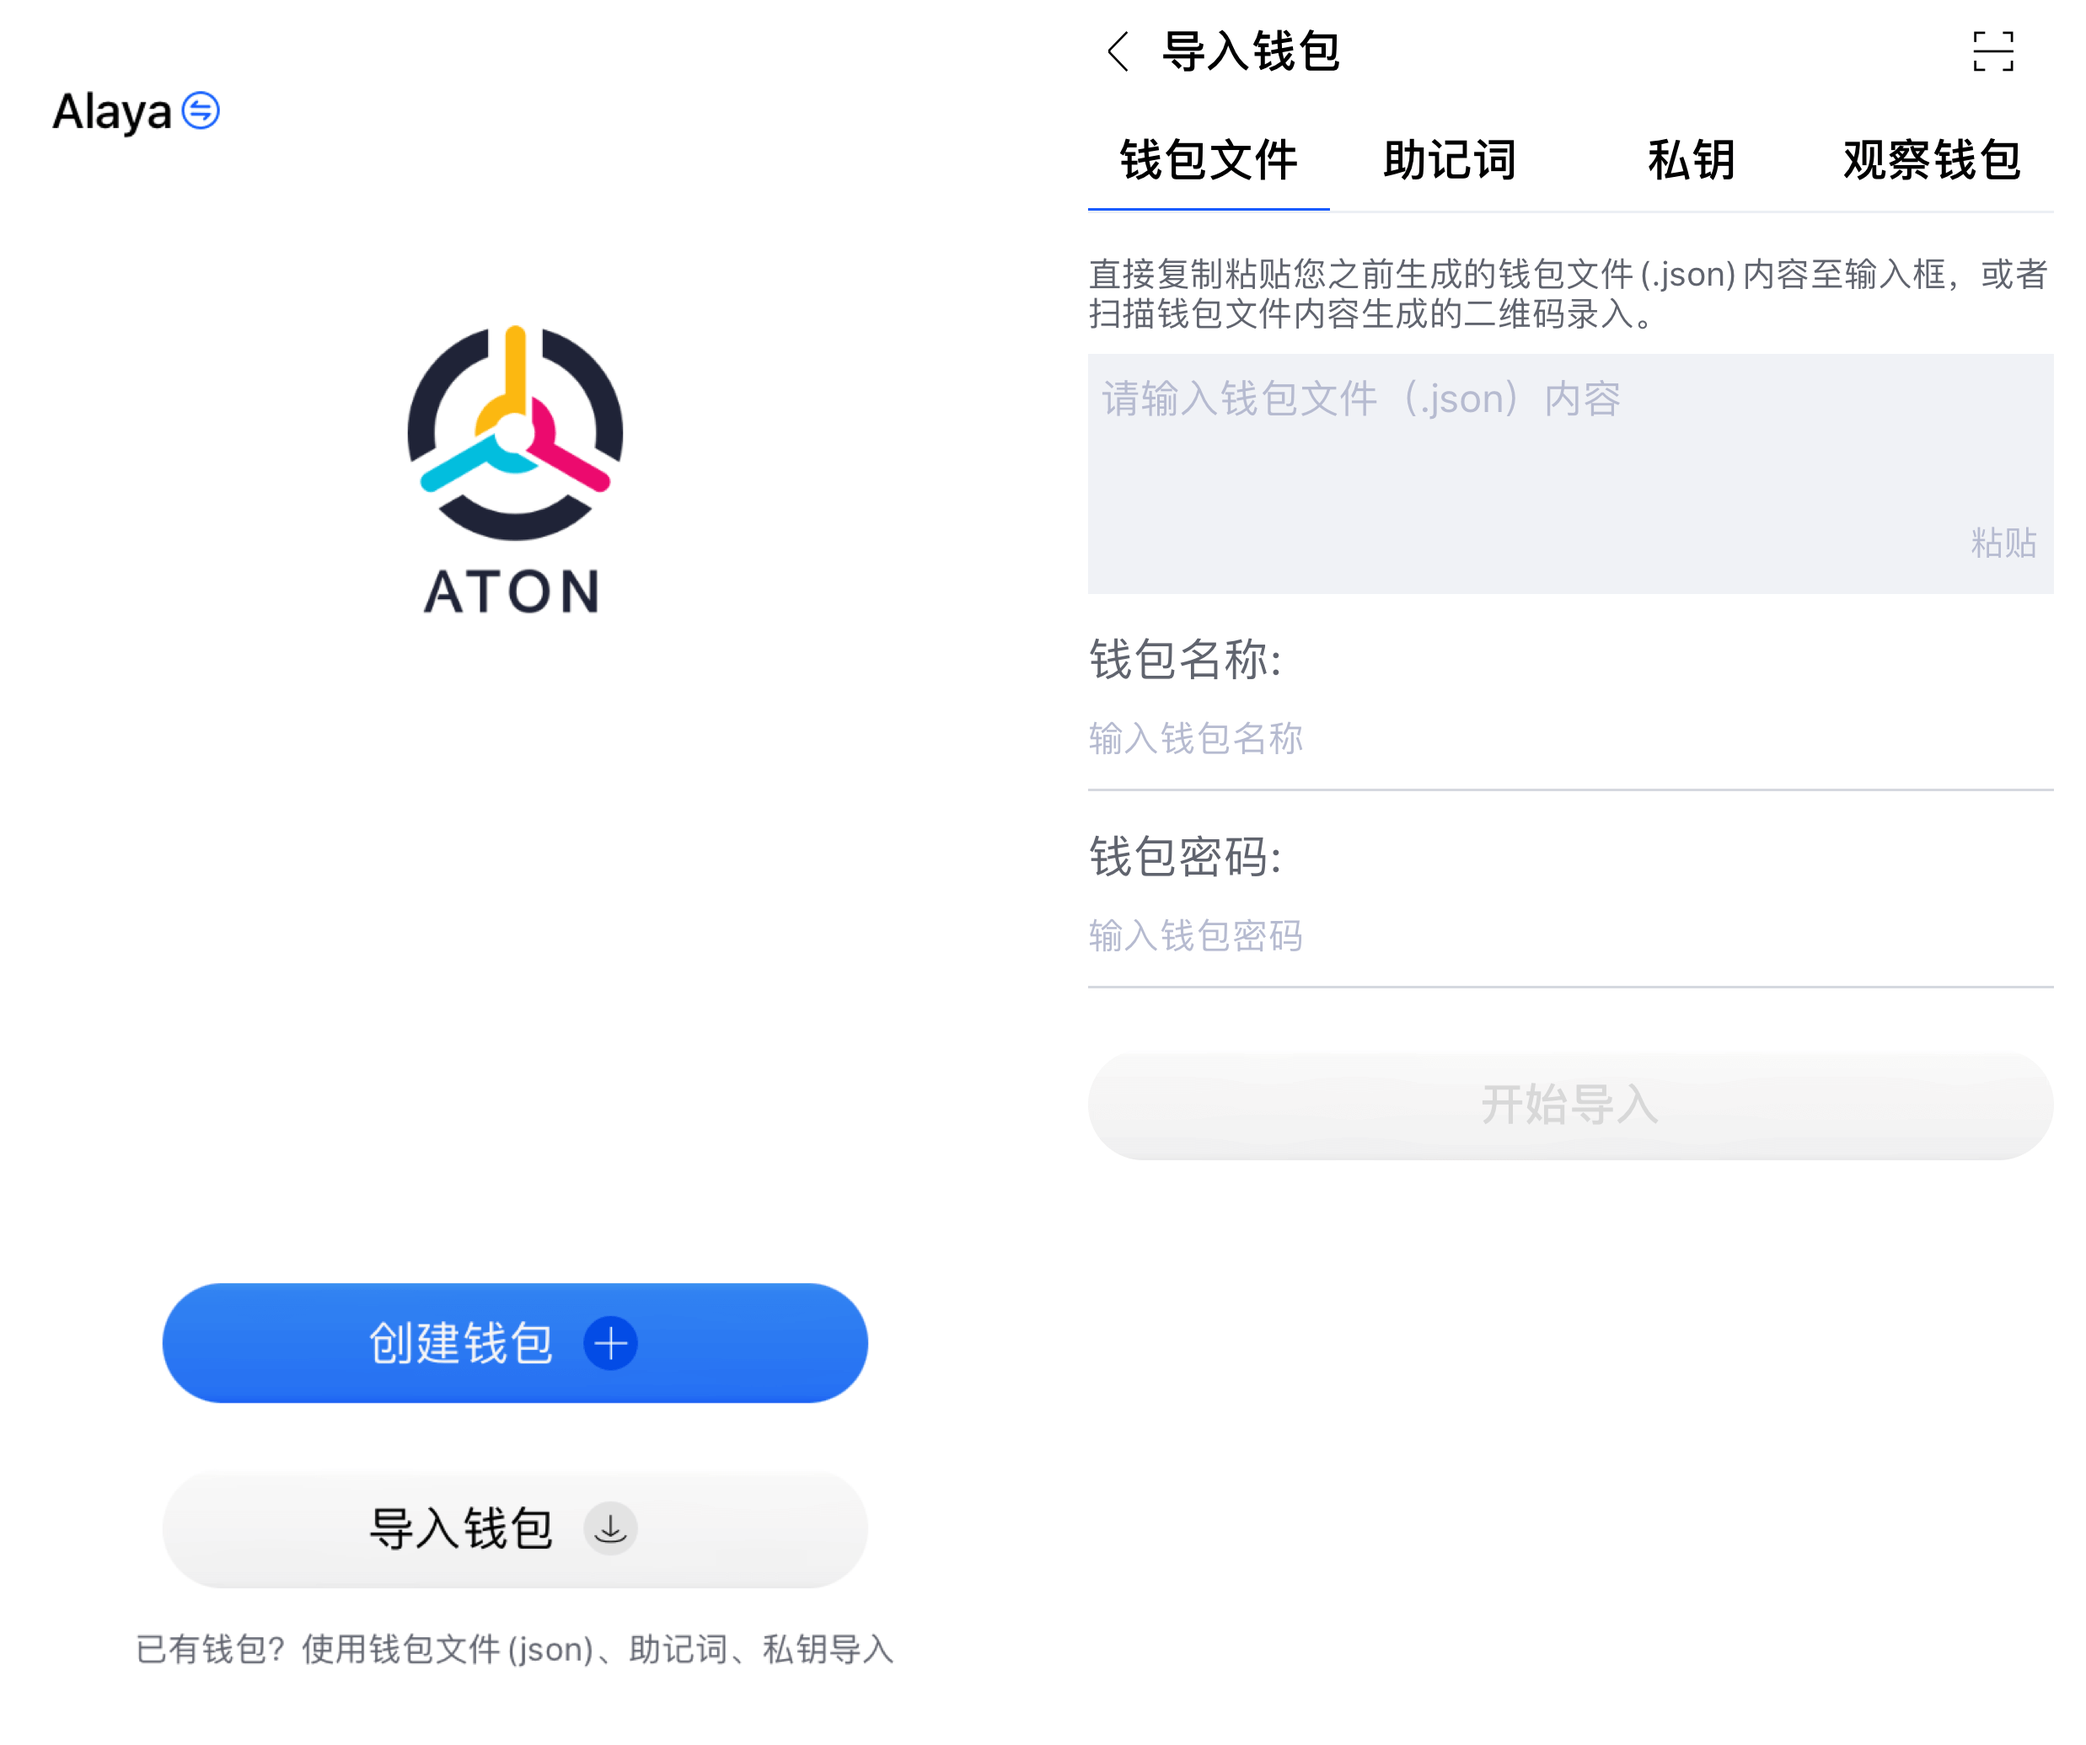
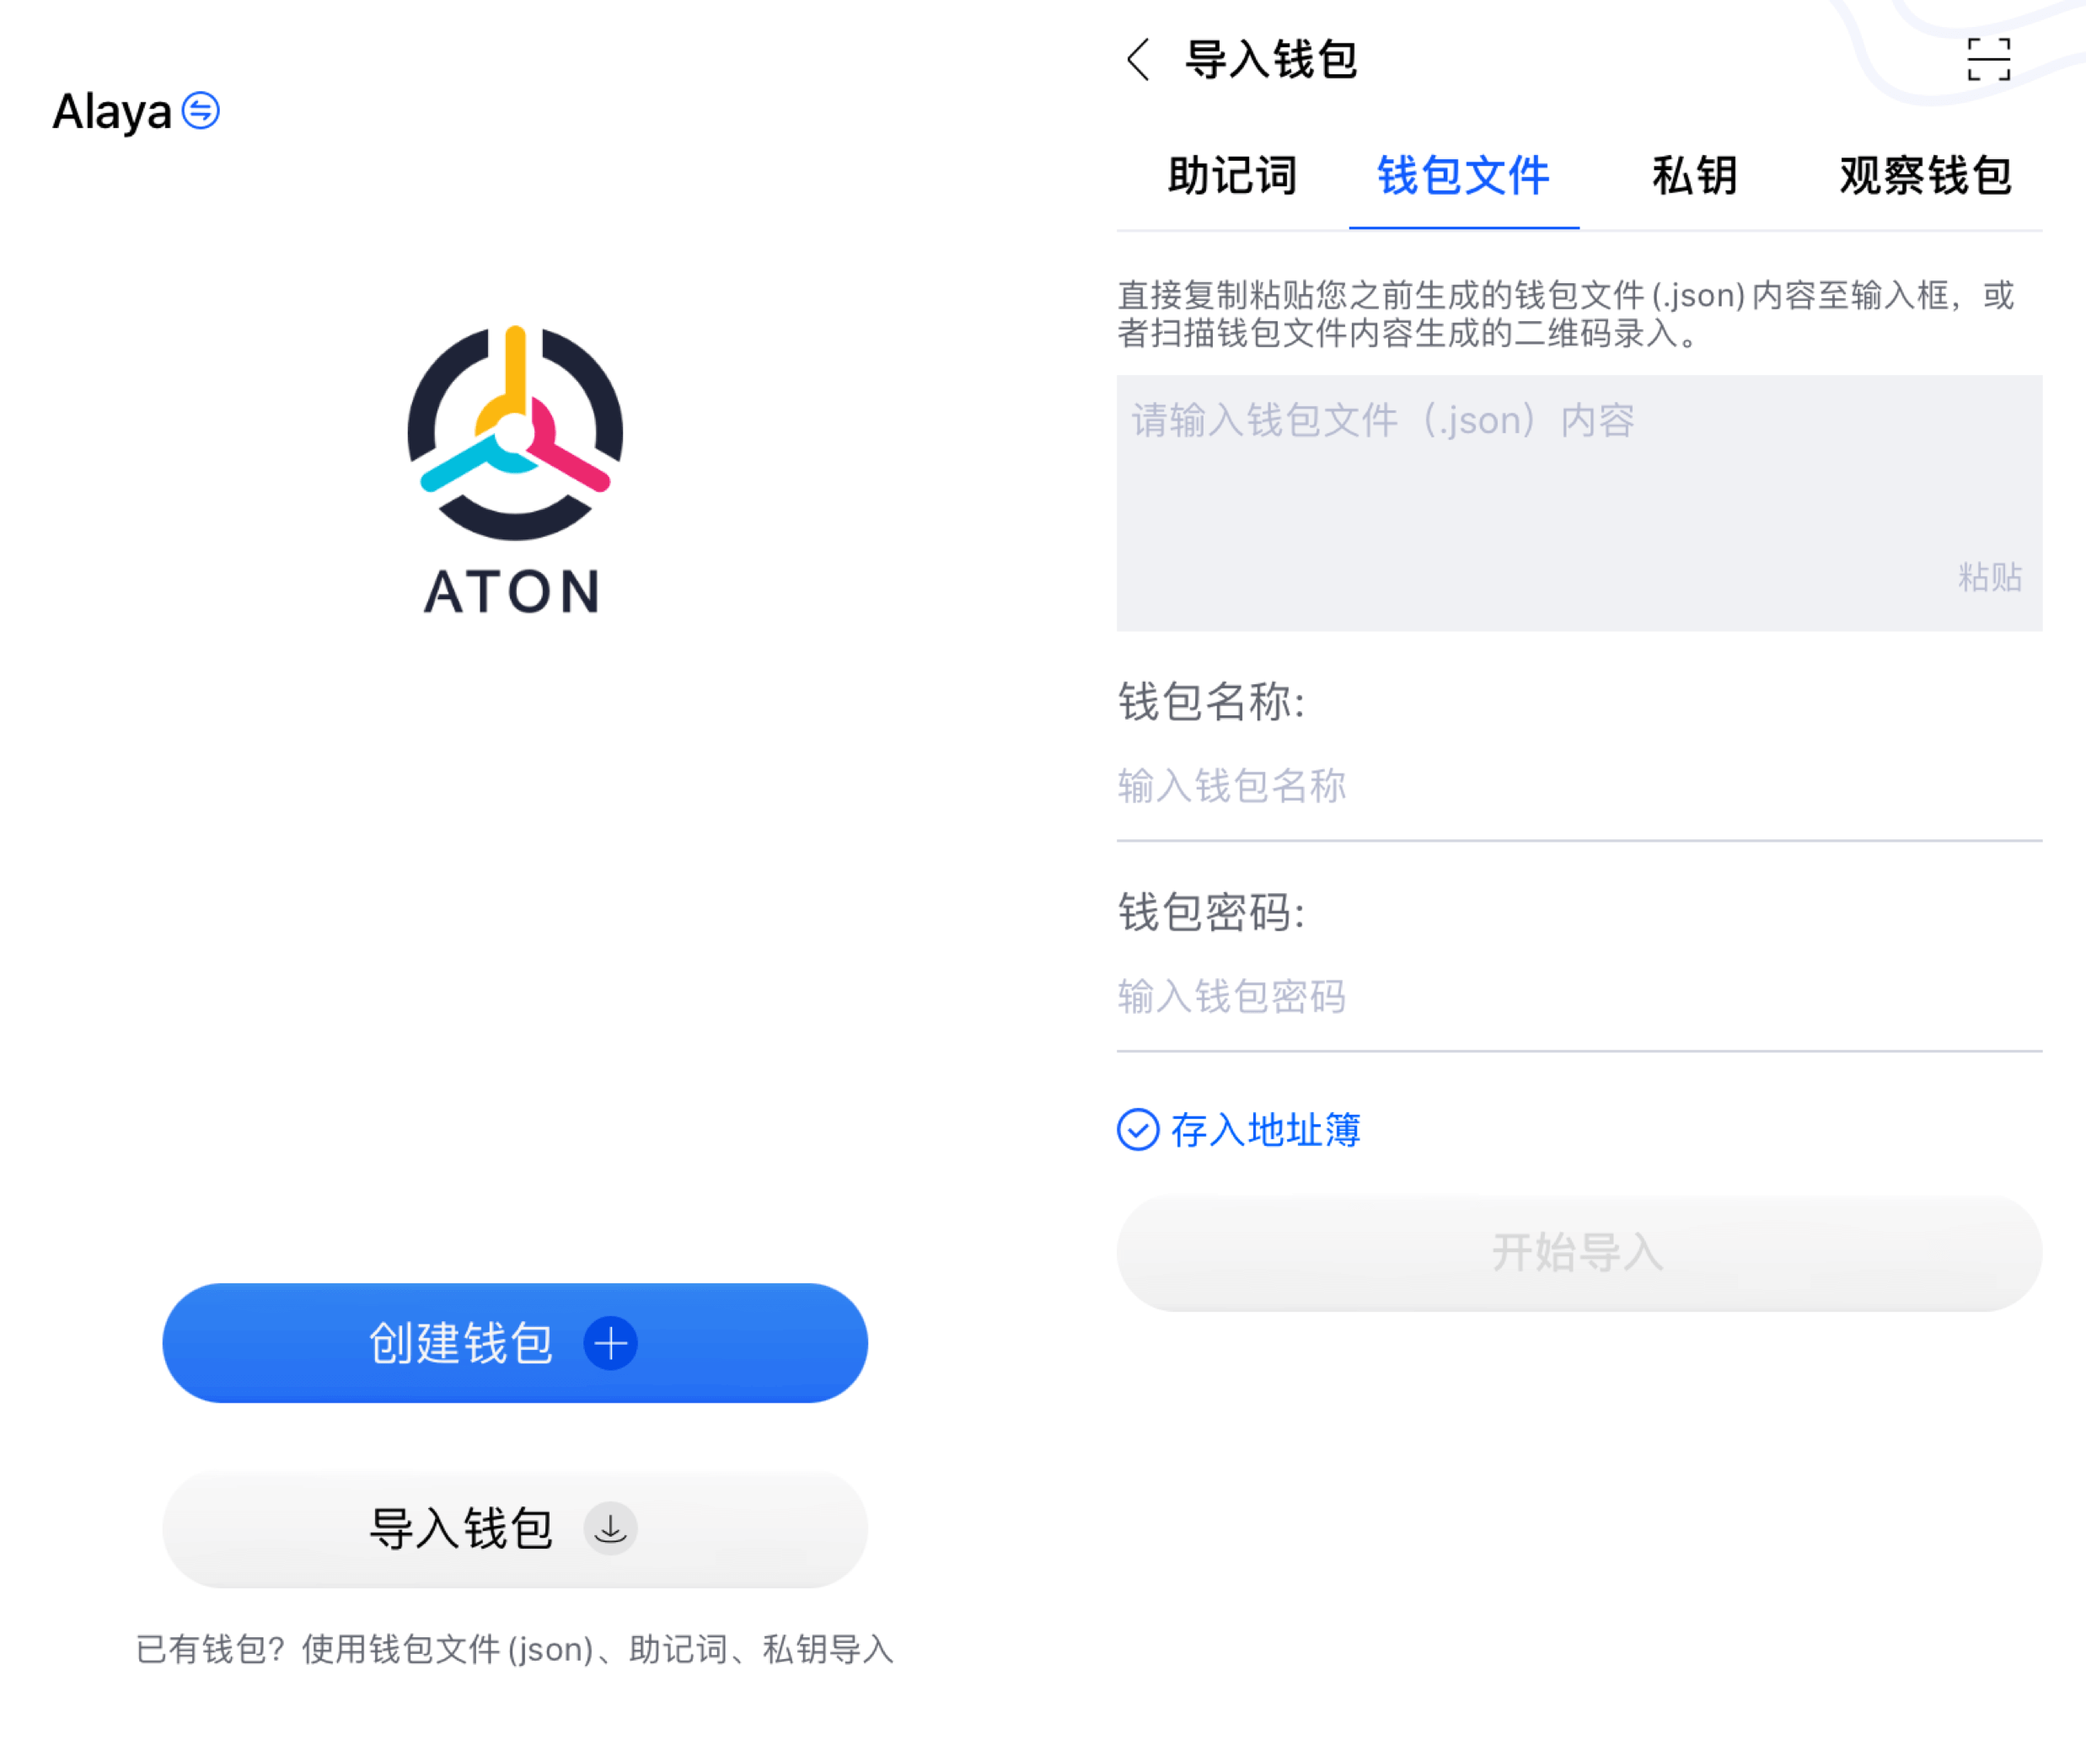
Documents for Chinese Update： 1. Save To Address Book Function 2; Changed some pics for importing wallets

diff --git a/website/translated_docs/zh-CN/ATON-user-manual.md b/website/translated_docs/zh-CN/ATON-user-manual.md
@@ -95,6 +95,20 @@ title: ATON钱包用户使用手册
 <div style="clear:both"></div>
 <div style="margin-top:40px;"></div>
 
+### 地址簿
+
+<div>
+<div style="float:left;"><img src="/alaya-devdocs/img/zh-CN/ATON-manual-cn.assets/aton108.png" width="500" style="zoom:80%;" /></div><div><br>1.选择【我的-设置】，可以看见地址簿中的存储的钱包地址列表。<br>2.点击其中任意一条地址信息，可以复制选中的地址。<br>3.侧滑其中任意一条地址信息，可以对其进行删除和编辑。<br>4.点击顶部导航栏右边的【+】按钮可以实现手动新增地址信息到地址簿。<br>5.同时，还可以在【创建钱包】和【导入钱包】页面（包含助记词导入、钱包文件导入、私钥导入、观察钱包导入）的【开始导入】按钮的上方勾选【存入地址簿】选项实现钱包自动存入地址簿，该选项默认勾选。
+</div>
+<div style="clear:both"></div>
+<div style="margin-top:40px;"></div>
+</div>
+
+详见“设置观察钱包和冷钱包”说明
+
+<div style="clear:both"></div>
+<div style="margin-top:40px;"></div>
+
 ## 选择钱包
 
 <div>
@@ -187,7 +201,7 @@ title: ATON钱包用户使用手册
 1. 准备 2 台手机，安装最新版的 ATON 钱包。
 2. 确保一台手机永不联网，建议开启飞行模式，关闭 WiFi，作为冷钱包设备；另一台手机联网作为观察钱包设备。
 <div>
-<div style="float:left;"><img src="/alaya-devdocs/img/zh-CN/ATON-manual-cn.assets/aton28.png" width="300" style="zoom:80%;" /></div><div><br>1. 不联网手机创建一个钱包，此钱包则为冷钱包。点击“接收”打开钱包二维码<br>2. 联网手机点击【导入钱包-观察钱包】，扫描不联网手机的二维码或者输入钱包地址，点击【完成】，观察钱包设置成功。<br><br><b>注意</b><br>1. 观察钱包：联网但不存有私钥的钱包，仅做观察使用。如需进行交易，需要配合冷钱包操作。<br>2. 冷钱包：不联网但存有私钥的钱包，需做安全隔离保管。
+<div style="float:left;"><img src="/alaya-devdocs/img/zh-CN/ATON-manual-cn.assets/aton28.png" width="300" style="zoom:80%;" /></div><div><br>1. 不联网手机创建一个钱包，此钱包则为冷钱包。点击“接收”打开钱包二维码<br>2. 如图所示，联网手机点击【导入钱包-观察钱包】，扫描不联网手机的二维码或者输入钱包地址，点击【完成】，观察钱包设置成功。<br><br><b>注意</b><br>1. 观察钱包：联网但不存有私钥的钱包，仅做观察使用。如需进行交易，需要配合冷钱包操作。<br>2. 冷钱包：不联网但存有私钥的钱包，需做安全隔离保管。
 </div>
 <div style="clear:both"></div>
 <div style="margin-top:40px;"></div>
